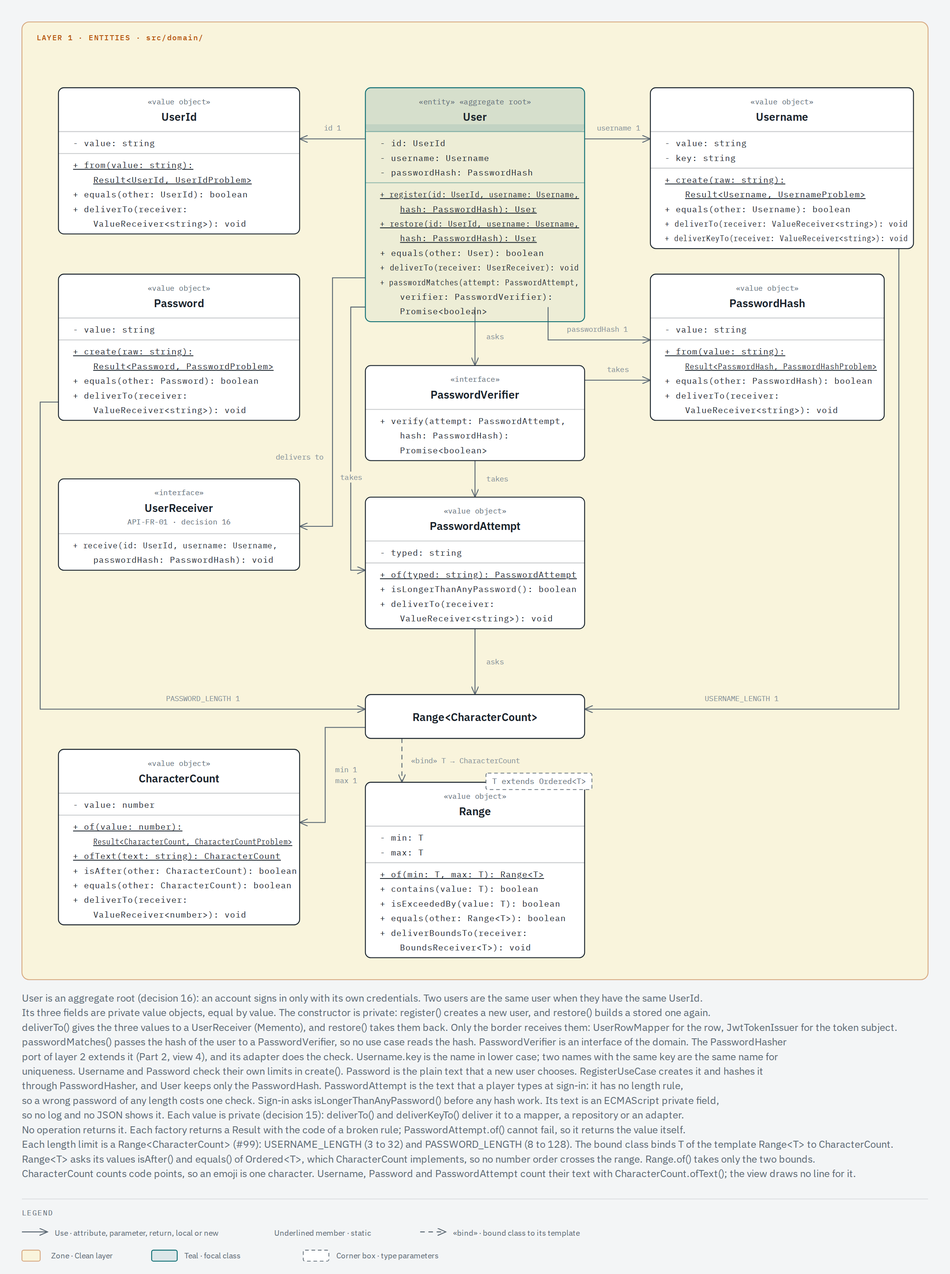
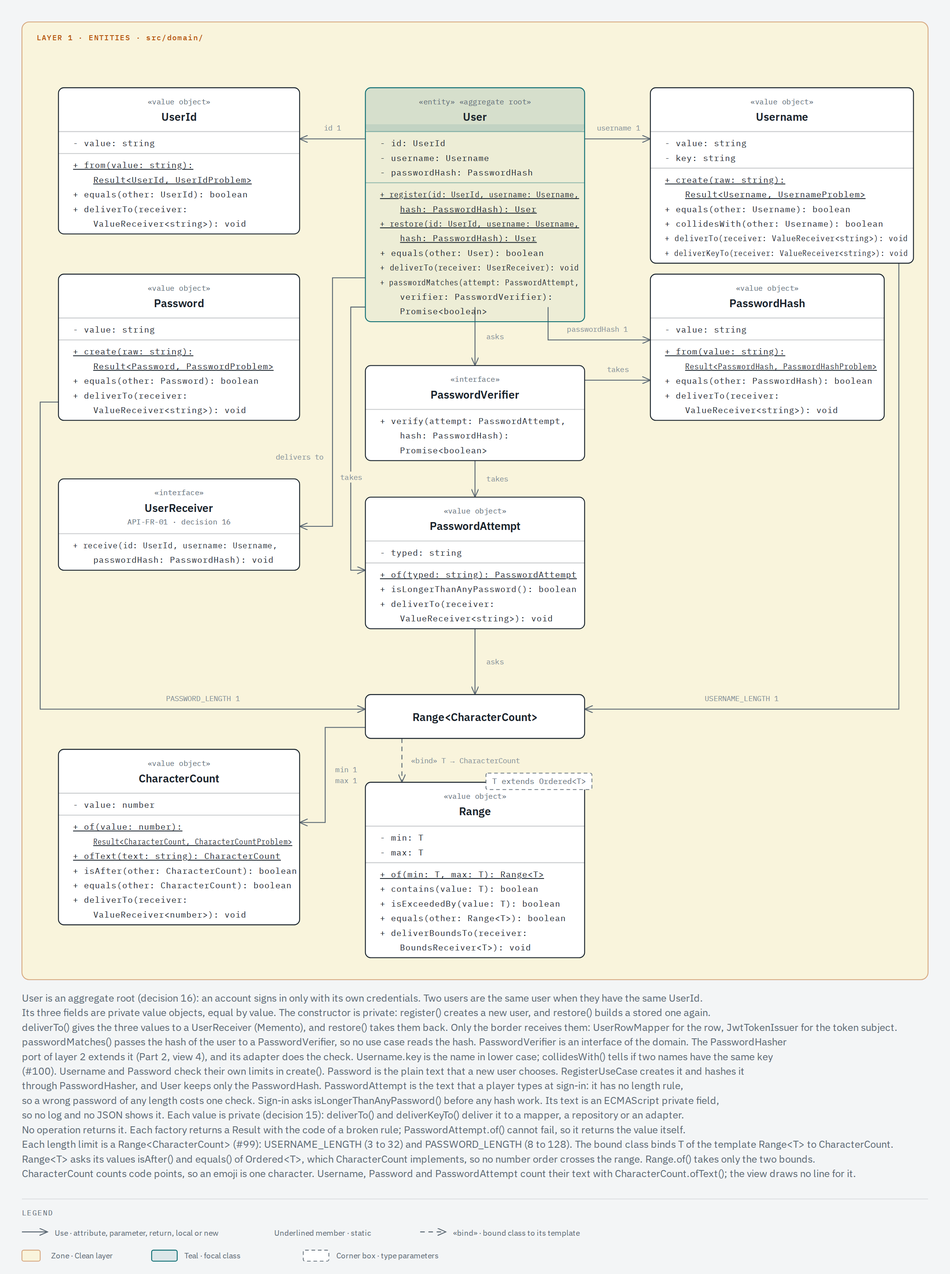
docs(architecture): name collidesWith in decision 15 and draw it in view domain-3-user
Decision 15 names collidesWith() as the business name of the uniqueness rule. View
domain-3-user draws the method, with its PNG.

Refs #100.

diff --git a/docs/architecture/classes/views/domain-3-user.html b/docs/architecture/classes/views/domain-3-user.html
@@ -78,12 +78,14 @@
           check a PasswordAttempt against the hash of the user. PasswordAttempt is the text that a
           player types at sign-in: it has no length rule, and it tells if it is longer than any
           password. Each value object keeps its value private and delivers it to a receiver with
-          deliverTo(); Username also delivers its key. The factory of each value object returns a
-          Result with the code of a broken rule, and PasswordAttempt.of() cannot fail. Username,
-          Password and PasswordAttempt use the USERNAME_LENGTH and PASSWORD_LENGTH limits, two
-          values of the bound class Range&lt;CharacterCount&gt;, which binds the type parameter T of
-          the template Range&lt;T&gt; to the CharacterCount value object. Range&lt;T&gt; asks its
-          values isAfter() and equals(), so no number order crosses it.
+          deliverTo(); Username also delivers its key, and collidesWith() tells if two names
+          collide: their keys are equal, so they differ at most in letter case. The factory of each
+          value object returns a Result with the code of a broken rule, and PasswordAttempt.of()
+          cannot fail. Username, Password and PasswordAttempt use the USERNAME_LENGTH and
+          PASSWORD_LENGTH limits, two values of the bound class Range&lt;CharacterCount&gt;, which
+          binds the type parameter T of the template Range&lt;T&gt; to the CharacterCount value
+          object. Range&lt;T&gt; asks its values isAfter() and equals(), so no number order crosses
+          it.
         </desc>
         <defs>
           <marker
@@ -188,7 +190,7 @@
         />
         <!-- Username.create() asks USERNAME_LENGTH, a Range<CharacterCount> constant of its module: use with role and multiplicity (#99) -->
         <path
-          d="M984 272 L984 776 L640 776"
+          d="M984 288 L984 776 L640 776"
           fill="none"
           stroke="#5b6873"
           stroke-width="1"
@@ -601,7 +603,7 @@
           x="712"
           y="96"
           width="288"
-          height="176"
+          height="192"
           rx="6"
           fill="#ffffff"
           stroke="#17212a"
@@ -660,11 +662,14 @@
         <text x="728" y="232" fill="#17212a" font-size="9" font-family="'IBM Plex Mono', monospace">
           + equals(other: Username): boolean
         </text>
+        <text x="728" y="248" fill="#17212a" font-size="9" font-family="'IBM Plex Mono', monospace">
+          + collidesWith(other: Username): boolean
+        </text>
         <text
           textLength="266"
           lengthAdjust="spacingAndGlyphs"
           x="728"
-          y="248"
+          y="264"
           fill="#17212a"
           font-size="9"
           font-family="'IBM Plex Mono', monospace"
@@ -675,7 +680,7 @@
           textLength="266"
           lengthAdjust="spacingAndGlyphs"
           x="728"
-          y="264"
+          y="280"
           fill="#17212a"
           font-size="9"
           font-family="'IBM Plex Mono', monospace"
@@ -1243,7 +1248,7 @@
           font-family="'IBM Plex Sans', sans-serif"
         >
           port of layer 2 extends it (Part 2, view 4), and its adapter does the check. Username.key
-          is the name in lower case; two names with the same key are the same name for
+          is the name in lower case; collidesWith() tells if two names have the same key
         </text>
         <text
           x="24"
@@ -1252,8 +1257,8 @@
           font-size="11"
           font-family="'IBM Plex Sans', sans-serif"
         >
-          uniqueness. Username and Password check their own limits in create(). Password is the
-          plain text that a new user chooses. RegisterUseCase creates it and hashes it
+          (#100). Username and Password check their own limits in create(). Password is the plain
+          text that a new user chooses. RegisterUseCase creates it and hashes it
         </text>
         <text
           x="24"

diff --git a/docs/architecture/classes.md b/docs/architecture/classes.md
@@ -225,7 +225,7 @@ These rules say how the domain model must be. They apply to every class of `src/
 12. **HTTP mappers.** `ProgressDtoMapper` and `LevelDtoMapper` in `src/adapters/http` translate between DTOs and entities, as the row mappers do for persistence. A controller holds no translation code. `LevelDtoMapper` is built (#81): `toRequest()` checks the body shape and builds the `UpdateLevelsRequest`, with the values of the common part of each level as domain values and the section as it arrives, because only the strategy of the `gameId` knows the section type (decision 5). `toDto()` and `toLevelsDto()` receive the parts that the level delivers, and `receiveJsonOf()` gives the section as the JSON of [`docs/level-format.md`](../level-format.md), so the mapper names no section type. `toDetails()` writes one line per level problem, which names the `gameId` and the `levelId` of the level. `SyncProgress` returns a `Result` with the `PlayerProgress`, and `ProgressDtoMapper` turns it into `ProgressDto`. `ProgressDtoMapper` also builds the domain values of each request (design decision of 2026-11-09): `SyncProgressRequest` carries a `GameId`, an optional `Score` and the `LevelResult` values, and `GetProgressRequest` carries a `GameId`. So a use case never builds a domain value from a loose primitive. This rule holds for every use case, not only for progress (design decision of 2026-11-15). `LeaderboardDtoMapper` builds the `GameId` and the `LevelId` of a `LeaderboardQuery` from the path, and it turns the `Leaderboard` that `GetLeaderboard` returns into `GlobalLeaderboardDto` or `LevelLeaderboardDto`. It keeps the order and the `rank` that `GetLeaderboardUseCase` gives: 1 plus the number of rows that are strictly better, so a full tie shares a rank (decision recorded on [#83](https://github.com/Hexablock-Suite/hexablock-api/issues/83#issuecomment-6905667403)). Today the code differs: the sign-up use case builds `Username` and `Password` from strings, the sign-in use case builds `Username` and `PasswordAttempt` from strings, and `AuthController` holds translation code. A new issue will carry the change. The progress mapper builds the values in one order: the `gameId`, the results, then the score. For each result it builds the `LevelId`, the `Stars`, the `Moves` and the `ElapsedTime` in that order, and passes the four value objects to `LevelResult.of()` (decision 3). A value that breaks its rule stops in the mapper: its factory gives the code of the rule, `progress-values.ts` writes the message (decision 11), and the controller answers 400 with the message of the first broken rule in that order. The request reaches no use case, and `LoggingAspect` writes no entry for it.
 13. **A filled diamond from the root to each internal entity, use arrows for the rest.** In the class of 2026-11-02 the professor asked for explicit dependencies (use, extend, implement) between layers, and for a composition or aggregation diamond only where it is needed. He added that the rule is for the relations between layers. So an attribute that crosses layers draws a use arrow with the attribute name and its multiplicity: a controller and its input ports, a use case and its ports (each port has its adapter in layer 3 or 4), and `UpdateLevelsUseCase` and `LevelValidators` (layers 2 and 1). On 2026-11-03 he said «vas abusando de la anotación». Inside one layer, the drawings of the classes of 2026-11-13 and 2026-11-14 decide. The root of an aggregate joins each internal entity with a filled diamond, of composition, on the side of the root, with its multiplicity. The same drawings join a root to its value objects, a context to its strategy and a decorator to the object that it wraps with use arrows. So the team decided on 2026-11-15: a filled diamond appears only from a root to an internal entity. Every other attribute, a GoF pattern included, is a use arrow with the attribute name and its multiplicity. Examples: `PlayerProgress` and its `GameId`, `Score` and `LevelResult` values, `LeaderboardEntry` and its `userId` and `result`, `LevelDefinition` and its section, and the `UseCaseAspect` decorator and its inner `UseCase` (view 2.1). This replaces the reading of the class of 2026-11-02 that kept a diamond where it made a GoF pattern visible («Aquí sí porque quiero hacer visible el patrón estratégico»). Since #77, views 1.2 and slice 3 of this page and view 2 of [extensibility.md](extensibility.md) draw a use arrow `entries 0..*` from `LevelValidators` to `LevelValidator`, and no level view draws a hollow diamond.
 14. **`AuthenticateToken` input port for the JWT guard (assumption for team review).** `JwtAuthGuard` sits in `src/adapters/http` and holds the `AuthenticateToken` input port, as a controller does. It never calls `TokenIssuer`. `AuthenticateTokenUseCase` verifies the token through `TokenIssuer.verify()`, which returns the `UserId` or `null`, and returns `Result<UserId, TokenProblem>`. The guard turns a failed `Result` into a 401 (API-FR-01). The docs named two options: a separate `TokenVerifier` port or an `AuthenticateToken` input port. This draft takes the input port, because a class on the controller side talks to the application only through input ports. The cost: `TokenIssuer` now issues and verifies tokens, so its name is narrower than its job. The team can rename it or split out a `TokenVerifier` port behind the same use case.
-15. **Closed values of the value objects (built, [#90](https://github.com/Hexablock-Suite/hexablock-api/issues/90)).** A value object keeps its datum private and delivers it to a receiver. No operation returns the datum. Fifteen data are private: the `value` of `UserId`, `GameId`, `PasswordHash`, `Password`, `LevelId`, `Stars`, `Moves`, `ElapsedTime`, `Score` and `CharacterCount`, the `value` and the `key` of `Username`, the `min` and the `max` of `Range`, and the `typed` text of `PasswordAttempt`. `ValueReceiver<T>` in `src/domain/shared` is the receiver: `receive(value: T): void`. Each value object has `deliverTo(receiver: ValueReceiver<T>): void`, the mirror of its factory method; `UserId` delivers the lower case form. Since #80, a composite value of the level schema, and `LevelDefinition` itself, delivers a record of its parts in the fields of its factory, and each part delivers its own value (decision 6). `Username` also has `deliverKeyTo(receiver)` for its key. `Range` has `deliverBoundsTo(receiver: BoundsReceiver<T>)`, which gives both bounds to the OpenAPI limits and the messages of the HTTP adapter, and `isExceededBy(value)`, which `PasswordAttempt.isLongerThanAnyPassword()` asks. Each bound of a credential range is a `CharacterCount`, which delivers its number (decision 17). Only the border receives a value: the row mappers, the repositories, `ProgressDtoMapper`, `AuthController` and `CredentialsDto` in layer 3, and `JwtTokenIssuer` and `ScryptPasswordHasher` in layer 4. Where an adapter needs the value as an expression (a row field, an SQL filter, the lock key, the token subject), it calls a helper of `src/adapters/received.ts`: `receiveValueOf()`, `receiveKeyOf()`, `receiveBoundsOf()`, `receiveBoundValuesOf()`, which receives the number of each bound of a credential range (decision 17), or `receiveLevelResultOf()`, which receives the four values that a `LevelResult` delivers (decision 3). `receiveProgressOf()` and `receiveUserOf()` receive the parts that an aggregate delivers (decisions 2 and 16). Each helper runs one delivery and gives what the receiver got. The helpers live in layer 3, so the domain and the application cannot import them. Inside the domain, an object compares with `equals()` or a business operation and never calls a delivery. A use case never opens a domain object, and the ports carry domain types: `PasswordHasher.hash()` takes a `Password` and returns a `PasswordHash`, and `verify()` takes the hash as a `PasswordHash`, so the only read of the password text stays in `ScryptPasswordHasher`. `verify()` takes the typed text as a `PasswordAttempt` ([#98](https://github.com/Hexablock-Suite/hexablock-api/issues/98)): sign-in checks a text that is not a `Password`, because `Password.create()` rejects a text shorter than 8 code points and a wrong password can be that short. So `PasswordAttempt` has no length rule: `PasswordAttempt.of()` takes any text and cannot fail, so it returns the value object itself, as `LevelResult.of()` does. `isLongerThanAnyPassword()` tells if the attempt is longer than any password, and sign-in asks it before any hash work, so the hash work of one request stays bounded. It counts code points through `CharacterCount.ofText()`, as `Password.create()` does (decision 17). The attempt keeps its text in an ECMAScript private field, not a TypeScript one, so `JSON.stringify()`, `util.inspect()` and a logger show no text. `ScryptPasswordHasher` receives the text by delivery, as it receives the text of a `Password`. The name `PasswordAttempt` is provisional until the team reviews it. The lint rule `hexablock/no-delivery-call` reports every use of `deliverTo`, `deliverKeyTo` and `deliverBoundsTo` in `src/domain` and `src/application`, and `test/gates/delivery.gate.spec.ts` checks the rule (rule R-no-delivery-call of `AGENTS.md`). Why: the professor's rule of 2026-11-09 forbids getters and public fields with readers in the domain model, and asks that an object implements its operations. An operation that returns the datum does what a getter does, so the datum is delivered and never returned (design decision of 2026-11-10). The receiver interface is a technical device, and a technical name is acceptable there (classes of 2026-11-02 and 2026-11-09). A delivery passes a primitive to the receiver across a public signature, so it is the second exception of the primitive rule, after the boolean; `src/domain/README.md` lists it with its reason. A delivery is not a getter (design decision of 2026-11-15). A getter returns the datum to the caller. A delivery returns nothing: the object pushes the datum to a receiver, and only the border receives it. The name `deliverTo` stays provisional until the professor names the operation. Views 1.1, 1.3 and 1.4 draw the private values and the delivery operations, and views 2.4, 3.4 and slice 2 draw the new `PasswordHasher` signature. View 1.3 and slice 2 draw `PasswordAttempt`, and views 3.4 and slice 2 draw `verify(attempt, hash)`.
+15. **Closed values of the value objects (built, [#90](https://github.com/Hexablock-Suite/hexablock-api/issues/90)).** A value object keeps its datum private and delivers it to a receiver. No operation returns the datum. Fifteen data are private: the `value` of `UserId`, `GameId`, `PasswordHash`, `Password`, `LevelId`, `Stars`, `Moves`, `ElapsedTime`, `Score` and `CharacterCount`, the `value` and the `key` of `Username`, the `min` and the `max` of `Range`, and the `typed` text of `PasswordAttempt`. `ValueReceiver<T>` in `src/domain/shared` is the receiver: `receive(value: T): void`. Each value object has `deliverTo(receiver: ValueReceiver<T>): void`, the mirror of its factory method; `UserId` delivers the lower case form. Since #80, a composite value of the level schema, and `LevelDefinition` itself, delivers a record of its parts in the fields of its factory, and each part delivers its own value (decision 6). `Username` also has `deliverKeyTo(receiver)` for its key. `Username.collidesWith(other)` is the business name of the rule of [#62](https://github.com/Hexablock-Suite/hexablock-api/issues/62): two names collide when their keys are equal, so they differ at most in letter case ([#100](https://github.com/Hexablock-Suite/hexablock-api/issues/100)). No domain service holds the rule: the comparison of two names fits in the value object (class of 2026-11-13), and the uniqueness over all the users stays at the repository (decision 16). `InMemoryUserRepository` asks `collidesWith()`, and `DrizzleUserRepository` compares the delivered key in SQL. The contract suite of the `UserRepository` port, `test/support/user-repository.contract.ts`, runs against both on the same pairs of names, so the SQL cannot disagree with the domain without a failing test. View 1.3 draws `collidesWith()`. `Range` has `deliverBoundsTo(receiver: BoundsReceiver<T>)`, which gives both bounds to the OpenAPI limits and the messages of the HTTP adapter, and `isExceededBy(value)`, which `PasswordAttempt.isLongerThanAnyPassword()` asks. Each bound of a credential range is a `CharacterCount`, which delivers its number (decision 17). Only the border receives a value: the row mappers, the repositories, `ProgressDtoMapper`, `AuthController` and `CredentialsDto` in layer 3, and `JwtTokenIssuer` and `ScryptPasswordHasher` in layer 4. Where an adapter needs the value as an expression (a row field, an SQL filter, the lock key, the token subject), it calls a helper of `src/adapters/received.ts`: `receiveValueOf()`, `receiveKeyOf()`, `receiveBoundsOf()`, `receiveBoundValuesOf()`, which receives the number of each bound of a credential range (decision 17), or `receiveLevelResultOf()`, which receives the four values that a `LevelResult` delivers (decision 3). `receiveProgressOf()` and `receiveUserOf()` receive the parts that an aggregate delivers (decisions 2 and 16). Each helper runs one delivery and gives what the receiver got. The helpers live in layer 3, so the domain and the application cannot import them. Inside the domain, an object compares with `equals()` or a business operation and never calls a delivery. A use case never opens a domain object, and the ports carry domain types: `PasswordHasher.hash()` takes a `Password` and returns a `PasswordHash`, and `verify()` takes the hash as a `PasswordHash`, so the only read of the password text stays in `ScryptPasswordHasher`. `verify()` takes the typed text as a `PasswordAttempt` ([#98](https://github.com/Hexablock-Suite/hexablock-api/issues/98)): sign-in checks a text that is not a `Password`, because `Password.create()` rejects a text shorter than 8 code points and a wrong password can be that short. So `PasswordAttempt` has no length rule: `PasswordAttempt.of()` takes any text and cannot fail, so it returns the value object itself, as `LevelResult.of()` does. `isLongerThanAnyPassword()` tells if the attempt is longer than any password, and sign-in asks it before any hash work, so the hash work of one request stays bounded. It counts code points through `CharacterCount.ofText()`, as `Password.create()` does (decision 17). The attempt keeps its text in an ECMAScript private field, not a TypeScript one, so `JSON.stringify()`, `util.inspect()` and a logger show no text. `ScryptPasswordHasher` receives the text by delivery, as it receives the text of a `Password`. The name `PasswordAttempt` is provisional until the team reviews it. The lint rule `hexablock/no-delivery-call` reports every use of `deliverTo`, `deliverKeyTo` and `deliverBoundsTo` in `src/domain` and `src/application`, and `test/gates/delivery.gate.spec.ts` checks the rule (rule R-no-delivery-call of `AGENTS.md`). Why: the professor's rule of 2026-11-09 forbids getters and public fields with readers in the domain model, and asks that an object implements its operations. An operation that returns the datum does what a getter does, so the datum is delivered and never returned (design decision of 2026-11-10). The receiver interface is a technical device, and a technical name is acceptable there (classes of 2026-11-02 and 2026-11-09). A delivery passes a primitive to the receiver across a public signature, so it is the second exception of the primitive rule, after the boolean; `src/domain/README.md` lists it with its reason. A delivery is not a getter (design decision of 2026-11-15). A getter returns the datum to the caller. A delivery returns nothing: the object pushes the datum to a receiver, and only the border receives it. The name `deliverTo` stays provisional until the professor names the operation. Views 1.1, 1.3 and 1.4 draw the private values and the delivery operations, and views 2.4, 3.4 and slice 2 draw the new `PasswordHasher` signature. View 1.3 and slice 2 draw `PasswordAttempt`, and views 3.4 and slice 2 draw `verify(attempt, hash)`.
 16. **`User` as an aggregate root that delivers its parts (built, [#91](https://github.com/Hexablock-Suite/hexablock-api/issues/91), [#96](https://github.com/Hexablock-Suite/hexablock-api/issues/96)).** `User` holds `id`, `username` and `passwordHash` in private fields, and its constructor is private. `User.register(id, username, hash)` creates a new user, and `User.restore(id, username, hash)` builds a stored one again from the value objects that it delivered. `User.deliverTo(receiver: UserReceiver)` gives the three value objects to a receiver of the border in one call, as `PlayerProgress.deliverTo()` does. The values are immutable, so the receiver cannot change the user through them. This is the Memento of decision 2, with the same names as `PlayerProgress`. `User` carries «aggregate root» because it guards one invariant: an account signs in only with its own credentials. Its id, its username and its password hash belong together, the password exists only as a hash, and only the user checks a typed text against its own hash, so no use case reads the hash. The boundary is not bigger. The progress of a player is its own aggregate (decision 2): no rule joins a sync to the credentials, so `PlayerProgress` refers to the user only by its `UserId` (rule «Reference by identity»). The rule that two users never share a username key ([#62](https://github.com/Hexablock-Suite/hexablock-api/issues/62), [#73](https://github.com/Hexablock-Suite/hexablock-api/issues/73)) covers every user, not one: an aggregate that held it would hold all the users, so `isUsernameTaken()` and the unique index on `username_key` hold it at the repository. The boundary is not smaller: a username or a password hash has no meaning without its account and no identity of its own, so each one is a value object inside the user. Its repository follows from the root: sign-up adds the whole user, and sign-in finds the whole user (design decision of 2026-11-09). The value objects guard their own rules, so `register()` and `restore()` check nothing more. Only the border receives the parts: `UserRowMapper` builds the row through `receiveUserOf()` and restores a user from a row, and `JwtTokenIssuer` receives the id for the token subject. No use case reads a part of a `User`. `RegisterUseCase` returns the id that it made. Design decision of 2026-11-10 for sign-in: `User` checks the password. `User.passwordMatches(attempt, verifier)` takes the `PasswordAttempt` that the player typed, passes it with the hash of the user to `PasswordVerifier.verify(attempt, hash)` and gives its answer ([#98](https://github.com/Hexablock-Suite/hexablock-api/issues/98)). `PasswordVerifier` is an interface of the domain, in `src/domain/user`, and the port `PasswordHasher` extends it, so `LoginUseCase` passes the port that it holds. For an unknown username, `LoginUseCase` still runs one `verify()` against the dummy hash, so a wrong name and a wrong password cost the same work. `TokenIssuer.issue()` takes the `User`, not a `UserId`, and the adapter receives the id that the user delivers; `verify()` still returns a `UserId` or `null`, and the token subject is the same text. The other option was a use case that reads the parts of the user to get the hash; the team did not take it, because the use case then opens the user. `PasswordVerifier` is an interface of the domain that the infrastructure implements through the port, and Q10 (class of 2026-10-30) puts every port in the application layer. The class of 2026-11-13 allows it: when the domain needs something that the infrastructure gives, the interface lives in the domain and the implementation lives outside. That is dependency inversion, and it breaks no dependency rule (decision 1). The domain still imports nothing from outside `src/domain`, and `PasswordVerifier` is its first signature with a `Promise`. Why: an entity has no getters and no setters (the professor's rule of 2026-11-09), and only the factory methods of the aggregate build it. View 1.3 and slice 2 draw the private fields, `register()`, `restore()`, `deliverTo()` and `passwordMatches()`; view 1.3 draws `UserReceiver` and `PasswordVerifier`; view 2.4 and slice 2 draw `PasswordHasher` under `PasswordVerifier`; views 2.4 and 3.4 draw `issue(user: User)`.
 
 17. **`Range<T extends Ordered<T>>` over `CharacterCount`, and the username pattern at the border (built, [#99](https://github.com/Hexablock-Suite/hexablock-api/issues/99)).** A range is `Range<T>`, and `T` is a value object that compares itself (classes of 2026-11-06 and 2026-11-14). The credential limits are two `Range<CharacterCount>` values: `USERNAME_LENGTH` (3 to 32) and `PASSWORD_LENGTH` (8 to 128). So `src/domain/` holds no `Range<number>`, and `Range.ofNumbers()` and `Compare<T>` are gone. `CharacterCount` in `src/domain/user/` is the number of characters of a text. `CharacterCount.of()` takes a non-negative safe integer and returns a `Result`: a number that breaks the rule gives the code `invalid-character-count` (rule «One failure mechanism»). `CharacterCount.ofText()` counts the code points of a text, so an emoji is one character. Every text has a count, so `ofText()` cannot fail and returns the value object itself, as `PasswordAttempt.of()` does. `Username.create()`, `Password.create()` and `PasswordAttempt.isLongerThanAnyPassword()` count only through it, so the count of code points has one home. The name `CharacterCount` is provisional until the team reviews it. The issue left two technical choices to the pull request.

diff --git a/src/domain/README.md b/src/domain/README.md
@@ -6,7 +6,7 @@ Entities, value objects and domain services. Imports only other files in `src/do
 
 `level/` holds the `LevelDefinition<TSection>` aggregate root, one per `gameId` and `levelId` (API-FR-04, DS-6), with the values of its common part (`LevelOrder`, `LevelVersion`, `TopologyId`) and the `Coordinate` of a cell. `level/fit/` and `level/sort/` hold the `FitSection` and `SortSection` value objects and their parts. Each section reads the section as it arrives, checks its own shape and returns a `Result` with a `LevelProblem` code, so a level is born valid. The `LevelValidators` domain service finds the `LevelValidator` strategy of a `gameId` with `GameId.equals()` and builds the level. `FitLevelValidator` finds the `Topology` of the level in `Topologies` with `TopologyId.equals()`, and `FitSection` checks A5 on it: `HexTopology` says which coordinates are hex cells and how a rotation step turns them. `LevelDefinition.accepts()` holds the version rule of S3-10: the stored copy rejects a lower `version` with `older-version`. The level and the composite values of its sections deliver a record of their parts to a receiver of the border, and each part delivers its own value. `docs/level-format.md` gives the shared level format.
 
-`user/` holds the `User` aggregate root, its value objects, its `UserReceiver` and the `PasswordVerifier` interface. `User` has no public field and no public constructor: `User.register()` creates a user, `User.restore()` builds a stored one again from its value objects, `deliverTo()` gives those value objects to a `UserReceiver` of the border, and `passwordMatches()` passes its hash to a `PasswordVerifier`. `Username` and `Password` check their length with the `USERNAME_LENGTH` and `PASSWORD_LENGTH` ranges, two `Range<CharacterCount>` values that also deliver their bounds to the HTTP adapters. `CharacterCount` is the number of characters of a text: it counts code points, so an emoji is one character, and `Username`, `Password` and `PasswordAttempt` count only through it (#99). The OpenAPI pattern of a username lives in the HTTP adapter, so `user/` exports no primitive. `PasswordAttempt` is the text that a player types at sign-in: it has no length rule, so `PasswordAttempt.of()` cannot fail, and `isLongerThanAnyPassword()` tells if the text is longer than any password. `passwordMatches()` and `PasswordVerifier.verify()` take it, so no public signature of `user/` takes the typed password as a `string` (#98). `shared/` holds `Result<T, E>`, the generic `Range<T>`, the `Ordered<T>` interface of a value that orders itself, and the receiver interfaces `ValueReceiver<T>` and `BoundsReceiver<T>`. `Range<T extends Ordered<T>>` asks its values `isAfter()` and `equals()`, so no number order crosses it (decision 17 of `docs/architecture/classes.md`).
+`user/` holds the `User` aggregate root, its value objects, its `UserReceiver` and the `PasswordVerifier` interface. `User` has no public field and no public constructor: `User.register()` creates a user, `User.restore()` builds a stored one again from its value objects, `deliverTo()` gives those value objects to a `UserReceiver` of the border, and `passwordMatches()` passes its hash to a `PasswordVerifier`. `Username.collidesWith()` tells if two names collide: their lower case keys are equal, so they differ at most in letter case (#100). `Username` and `Password` check their length with the `USERNAME_LENGTH` and `PASSWORD_LENGTH` ranges, two `Range<CharacterCount>` values that also deliver their bounds to the HTTP adapters. `CharacterCount` is the number of characters of a text: it counts code points, so an emoji is one character, and `Username`, `Password` and `PasswordAttempt` count only through it (#99). The OpenAPI pattern of a username lives in the HTTP adapter, so `user/` exports no primitive. `PasswordAttempt` is the text that a player types at sign-in: it has no length rule, so `PasswordAttempt.of()` cannot fail, and `isLongerThanAnyPassword()` tells if the text is longer than any password. `passwordMatches()` and `PasswordVerifier.verify()` take it, so no public signature of `user/` takes the typed password as a `string` (#98). `shared/` holds `Result<T, E>`, the generic `Range<T>`, the `Ordered<T>` interface of a value that orders itself, and the receiver interfaces `ValueReceiver<T>` and `BoundsReceiver<T>`. `Range<T extends Ordered<T>>` asks its values `isAfter()` and `equals()`, so no number order crosses it (decision 17 of `docs/architecture/classes.md`).
 
 ## The primitive rule and its exceptions
 
